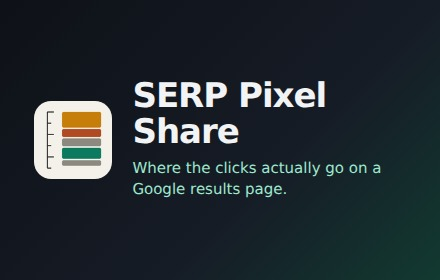
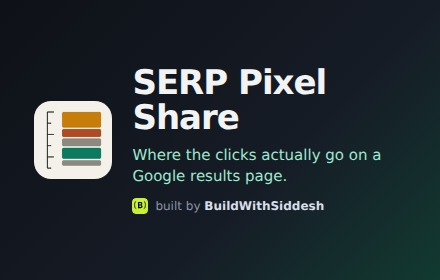
Use the real BuildWithSiddesh mark, and bump to 0.5.2
0.5.1 shipped a "BWS" text placeholder because I did not have the logo. This
replaces it with the actual mark from buildwithsiddesh.com — the lime { B } —
at 22px in the panel footer and 12px in the on-page HUD.

Built with createElementNS in SPS.brandMark rather than loaded as an <img>.
The HUD draws into google.com, so an <img> pointing at an extension file would
have required declaring the icon web-accessible, which exposes it to every page
the user visits in exchange for nothing. Building the nodes also keeps the panel
and the HUD reading from one definition so they cannot drift.

icons/bws-mark.svg ships as the source of the geometry, and the promo tiles and
composite screenshot frames render from it too.

Side effect worth naming: www.w3.org now appears in the privacy audit's host
grep, because createElementNS takes the SVG namespace URI. A namespace is an
identifier, not an address, and STORE_LISTING.md now says so alongside the other
two non-fetched hosts.

Version had to move to 0.5.2 — 0.5.1 was already handed over, and the store
will not accept a second upload under a version number it has seen.

Full suite green: units, fixture, panel, csv, stability.

Changed region(s): [[0.2955, 0.2286, 0.8864, 0.7714]]

diff --git a/src/shared/constants.js b/src/shared/constants.js
@@ -2,7 +2,7 @@
 // Attached to globalThis so content scripts (non-module) and the panel both read it.
 
 const SPS = {
-  VERSION: '0.5.1',
+  VERSION: '0.5.2',
 
   // Maker credit. Rendered in the panel footer and the on-page HUD, and it is
   // a plain link — nothing is fetched from this host, no parameters are
@@ -106,6 +106,61 @@ const SPS = {
     gscProperty: '',
     showEstimates: true
   }
+};
+
+/**
+ * The BuildWithSiddesh mark, built as DOM rather than markup.
+ *
+ * The content script draws this into google.com, so it cannot be an <img>
+ * pointing at an extension file without declaring the icon a web-accessible
+ * resource — which would expose it to every page. Building the nodes avoids
+ * that, and avoids innerHTML, and lets the panel and the HUD share one source.
+ *
+ * Geometry matches icons/bws-mark.svg exactly.
+ *
+ * @param {number} size rendered edge length in px
+ */
+SPS.brandMark = function (size) {
+  const NS = 'http://www.w3.org/2000/svg';
+  const svg = document.createElementNS(NS, 'svg');
+  svg.setAttribute('viewBox', '0 0 32 32');
+  svg.setAttribute('width', size);
+  svg.setAttribute('height', size);
+  svg.setAttribute('aria-hidden', 'true');
+  svg.style.display = 'block';
+  svg.style.flex = 'none';
+
+  const bg = document.createElementNS(NS, 'rect');
+  bg.setAttribute('width', '32');
+  bg.setAttribute('height', '32');
+  bg.setAttribute('rx', '8');
+  bg.setAttribute('fill', '#c8f135');
+  svg.appendChild(bg);
+
+  const strokes = [
+    'M7.4 7.6 C5.9 8.2 5.2 9.4 5.4 11 C5.6 12.4 5.2 13.4 4.2 14 C5.4 14.7 5.9 15.8 5.7 17.3 C5.5 18.9 6.1 20.2 7.6 20.9',
+    'M24.6 7.6 C26.1 8.2 26.8 9.4 26.6 11 C26.4 12.4 26.8 13.4 27.8 14 C26.6 14.7 26.1 15.8 26.3 17.3 C26.5 18.9 25.9 20.2 24.4 20.9'
+  ];
+  for (const d of strokes) {
+    const p = document.createElementNS(NS, 'path');
+    p.setAttribute('d', d);
+    p.setAttribute('stroke', '#0a0a0c');
+    p.setAttribute('stroke-width', '1.8');
+    p.setAttribute('stroke-linecap', 'round');
+    p.setAttribute('stroke-linejoin', 'round');
+    p.setAttribute('fill', 'none');
+    svg.appendChild(p);
+  }
+
+  const b = document.createElementNS(NS, 'path');
+  b.setAttribute('d', 'M12 7.8 H17 C19.2 7.8 20.7 9 20.7 11 C20.7 12.4 19.9 13.4 18.6 13.9 ' +
+    'C20.2 14.3 21.1 15.5 21.1 17.1 C21.1 19.2 19.5 20.4 17.2 20.4 H12 Z ' +
+    'M14.7 10.1 V12.9 H16.7 C17.7 12.9 18.3 12.4 18.3 11.5 C18.3 10.6 17.7 10.1 16.7 10.1 Z ' +
+    'M14.7 15 V18.1 H17 C18 18.1 18.6 17.5 18.6 16.5 C18.6 15.6 18 15 17 15 Z');
+  b.setAttribute('fill', '#0a0a0c');
+  svg.appendChild(b);
+
+  return svg;
 };
 
 /**

diff --git a/src/sidepanel/panel.css b/src/sidepanel/panel.css
@@ -334,19 +334,13 @@ select { margin-bottom: 0; }
   color: inherit;
 }
 .brand:hover { background: var(--paper-2); }
-.brand:hover .brand__mark { border-color: var(--teal); color: var(--teal); }
 .brand:hover .brand__go { color: var(--teal); transform: translate(1px, -1px); }
 .brand__mark {
   flex: none;
-  font-family: var(--mono);
-  font-size: 9.5px;
-  letter-spacing: 0.06em;
-  color: var(--ink-2);
-  border: 1px solid var(--rule-2);
-  border-radius: 3px;
-  padding: 5px 5px 4px;
-  line-height: 1;
-  transition: color .12s, border-color .12s;
+  display: block;
+  line-height: 0;
+  border-radius: 6px;
+  overflow: hidden;
 }
 .brand__text { display: flex; flex-direction: column; gap: 1px; min-width: 0; }
 .brand__name { font-size: 11.5px; color: var(--ink-2); }

diff --git a/src/content/overlay.css b/src/content/overlay.css
@@ -211,15 +211,18 @@
 /* Maker credit under the HUD button. One line, muted, so the HUD stays a
    readout and not a billboard. */
 .sps-hud__brand {
-  display: block;
-  margin-top: 6px;
+  display: flex;
+  align-items: center;
+  justify-content: center;
+  gap: 5px;
+  margin-top: 7px;
   font-family: inherit;
   font-size: 9.5px;
   letter-spacing: 0.02em;
   color: var(--sps-muted);
   text-decoration: none;
-  text-align: center;
 }
+.sps-hud__brand svg { border-radius: 3px; }
 .sps-hud__brand:hover { color: var(--sps-teal); text-decoration: underline; }
 
 @media (prefers-reduced-motion: no-preference) {

diff --git a/src/sidepanel/panel.html b/src/sidepanel/panel.html
@@ -165,7 +165,7 @@
 </main>
 
 <a id="brand" class="brand" href="https://www.buildwithsiddesh.com/" target="_blank" rel="noopener noreferrer">
-  <span class="brand__mark" aria-hidden="true">BWS</span>
+  <span class="brand__mark" aria-hidden="true"></span>
   <span class="brand__text">
     <span class="brand__name">Built by <b>BuildWithSiddesh</b></span>
     <span class="brand__line">Rank trackers report a number. This one reads the page.</span>

diff --git a/src/content/overlay.js b/src/content/overlay.js
@@ -380,7 +380,10 @@ const SPS_OVERLAY = (() => {
     brand.href = SPS.BRAND.url;
     brand.target = '_blank';
     brand.rel = 'noopener noreferrer';
-    brand.textContent = 'built by ' + SPS.BRAND.host;
+    brand.appendChild(SPS.brandMark(12));
+    const bt = document.createElement('span');
+    bt.textContent = 'built by ' + SPS.BRAND.host;
+    brand.appendChild(bt);
     h.appendChild(brand);
 
     document.body.appendChild(h);

diff --git a/src/sidepanel/panel.js b/src/sidepanel/panel.js
@@ -588,3 +588,7 @@ $('#copy-id').addEventListener('click', async () => {
     toast('Press Ctrl+C to copy the selected ID.');
   }
 });
+
+// Maker credit mark. Built from SPS.brandMark so the panel and the on-page HUD
+// render the same geometry from one definition.
+$('.brand__mark').appendChild(SPS.brandMark(22));

diff --git a/STORE_LISTING.md b/STORE_LISTING.md
@@ -117,19 +117,22 @@ Your scan history and measured SERP data are never transmitted
 anywhere. Uninstalling removes them.
 
 **Verification note — re-check before each submission.** The claim above is only
-true while the shipped code contains no other network calls. Re-run as of 0.5.1,
+true while the shipped code contains no other network calls. Re-run as of 0.5.2,
 the archive being submitted: three `fetch` call sites, all in
 `src/background/gsc.js`, targeting only `searchconsole.googleapis.com` and
 `oauth2.googleapis.com/revoke`; no `XMLHttpRequest`, no `sendBeacon`, no
 `WebSocket`, no remote script loading.
 
-Two host strings in the source are never fetched, and the host grep below will
-show both:
+Three host strings in the source are never fetched, and the host grep below will
+show all three:
 
 - `www.googleapis.com` — the OAuth scope identifier in `manifest.json`.
 - `www.buildwithsiddesh.com` — the `href` of the maker-credit link in the panel
   footer and the on-page HUD. It navigates only when the user clicks it, carries
   no query parameters, and nothing is sent to it.
+- `www.w3.org` — the SVG namespace URI passed to `createElementNS` in
+  `SPS.brandMark`. A namespace is an identifier, not an address; nothing is
+  requested from it.
 
 Re-run before publishing:
 

diff --git a/CHANGELOG.md b/CHANGELOG.md
@@ -1,5 +1,28 @@
 # Changelog
 
+## 0.5.2
+
+### Changed
+
+- **The maker credit now uses the real BuildWithSiddesh mark** — the lime
+  `{ B }` from buildwithsiddesh.com — instead of the `BWS` text placeholder
+  0.5.1 shipped with. It appears at 22px in the panel footer and 12px in the
+  on-page HUD.
+
+  The mark is built with `createElementNS` in `SPS.brandMark` rather than
+  loaded as an `<img>`. The HUD draws into google.com, and an `<img>` pointing
+  at an extension file would have meant declaring the icon a web-accessible
+  resource — exposing it to every page the user visits, to save nothing. One
+  definition now feeds both surfaces, and the panel and HUD cannot drift apart.
+
+  `icons/bws-mark.svg` is the source of the geometry and ships alongside it.
+
+  This adds `www.w3.org` to the privacy audit's host grep — the SVG namespace
+  URI, which is an identifier and not an address. `STORE_LISTING.md` names it
+  so the next person running the audit does not have to work that out.
+
+- Store screenshots and both promo tiles regenerated, all carrying the mark.
+
 ## 0.5.1
 
 ### Added
